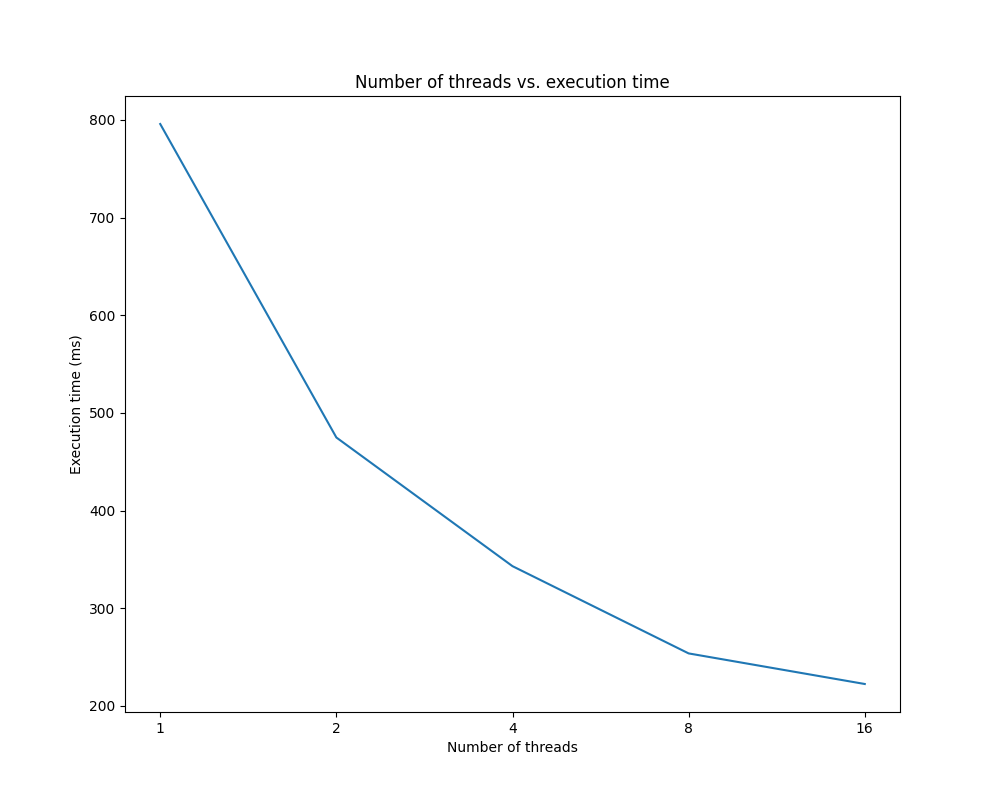
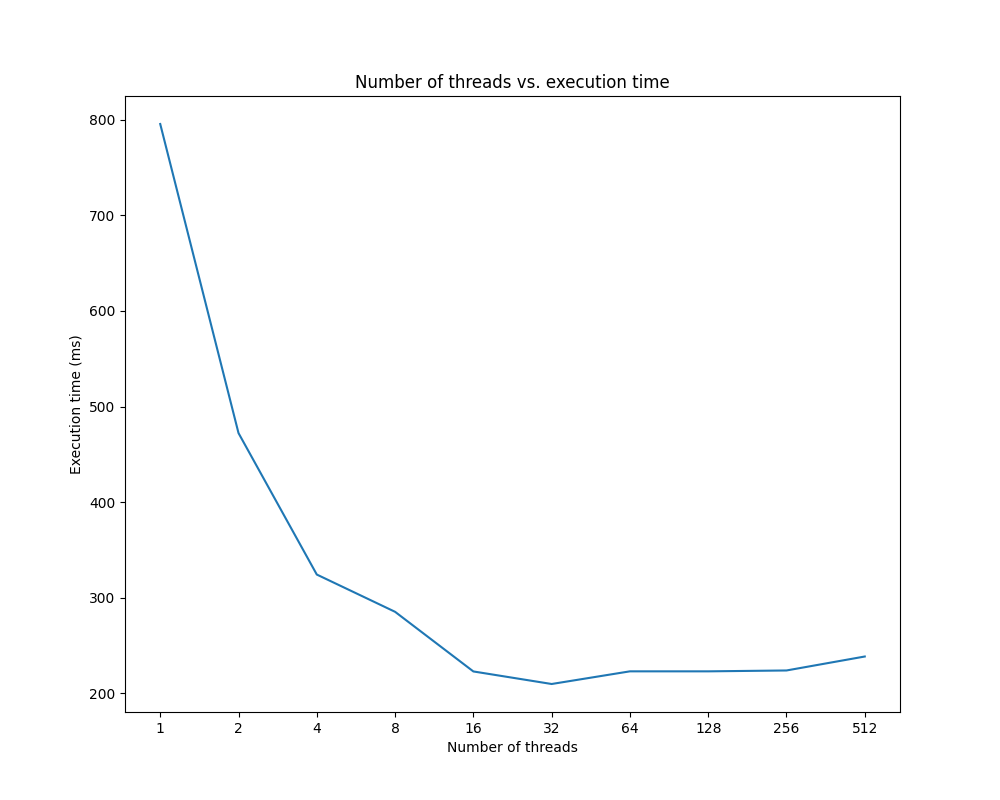
Updated plotting mechanism

diff --git a/ex3/plot.py b/ex3/plot.py
@@ -1,17 +1,16 @@
 import matplotlib.pyplot as plt
 
-labels = []
 data = []
 
 while True:
 	try:
-		x = input()
 		y = float(input())
 	except EOFError:
 		break
 	else:
-		labels.append(x)
 		data.append(y)
+
+labels = [str(2 ** i) for i in range(len(data))]
 
 fig = plt.figure(figsize=(10, 8))
 plt.plot(labels, data)

diff --git a/ex3/main.cpp b/ex3/main.cpp
@@ -85,7 +85,7 @@ int main(int argc, char **argv)
         arr[i] = arr2[i] = dist(rd);
     }
 
-    for (int &i : vector<int>{1, 2, 4, 8, 16}) // {1, 2, 4, 8, 16}
+    for (int &i : vector<int>{1, 2, 4, 8, 16, 32, 64, 128, 256, 512}) // {1, 2, 4, 8, 16}
     {
         p = i;
         arr = arr2;
